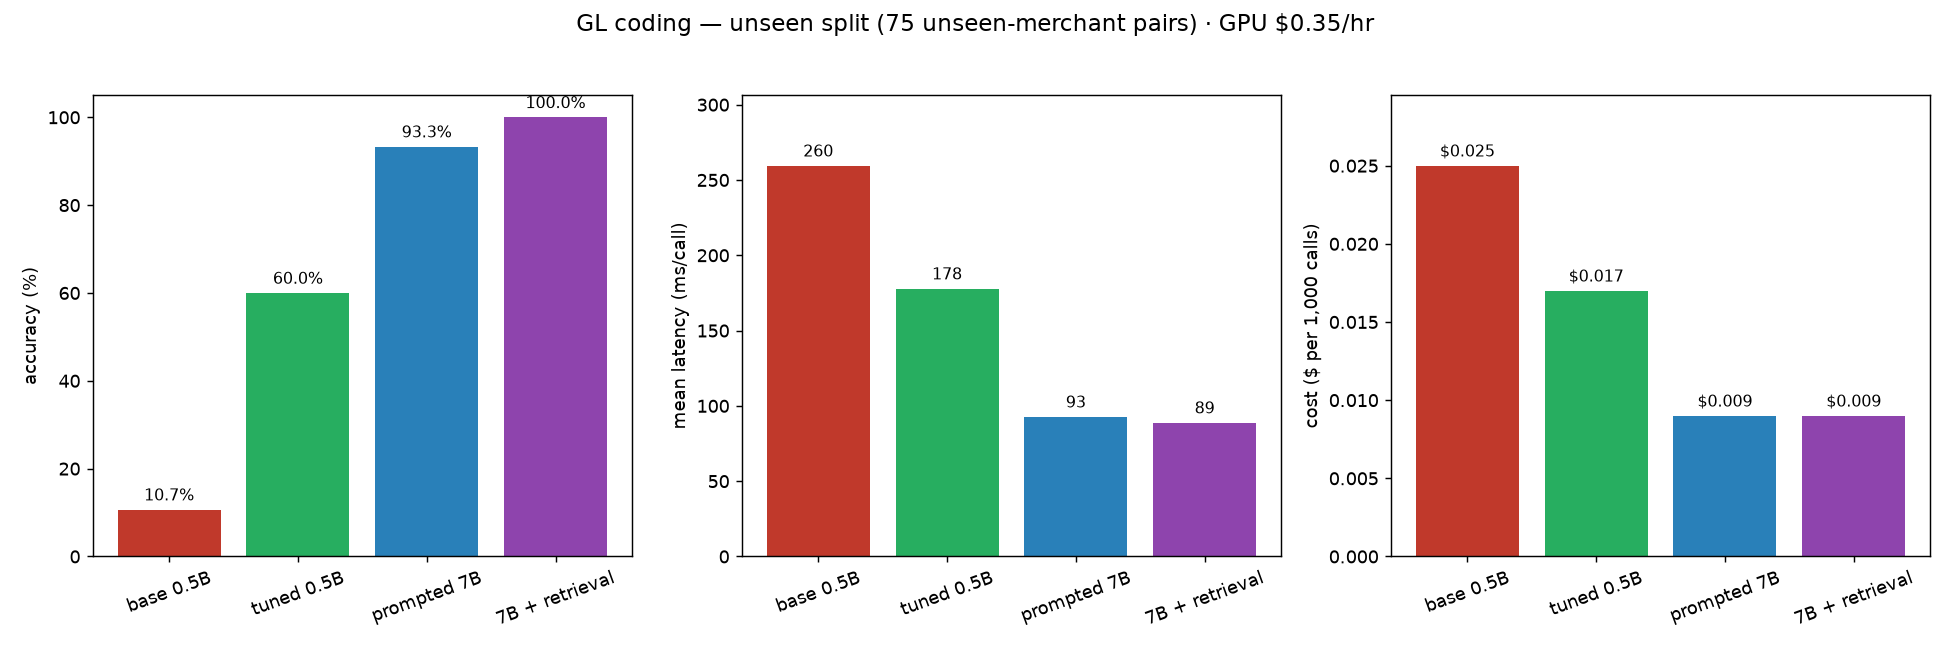
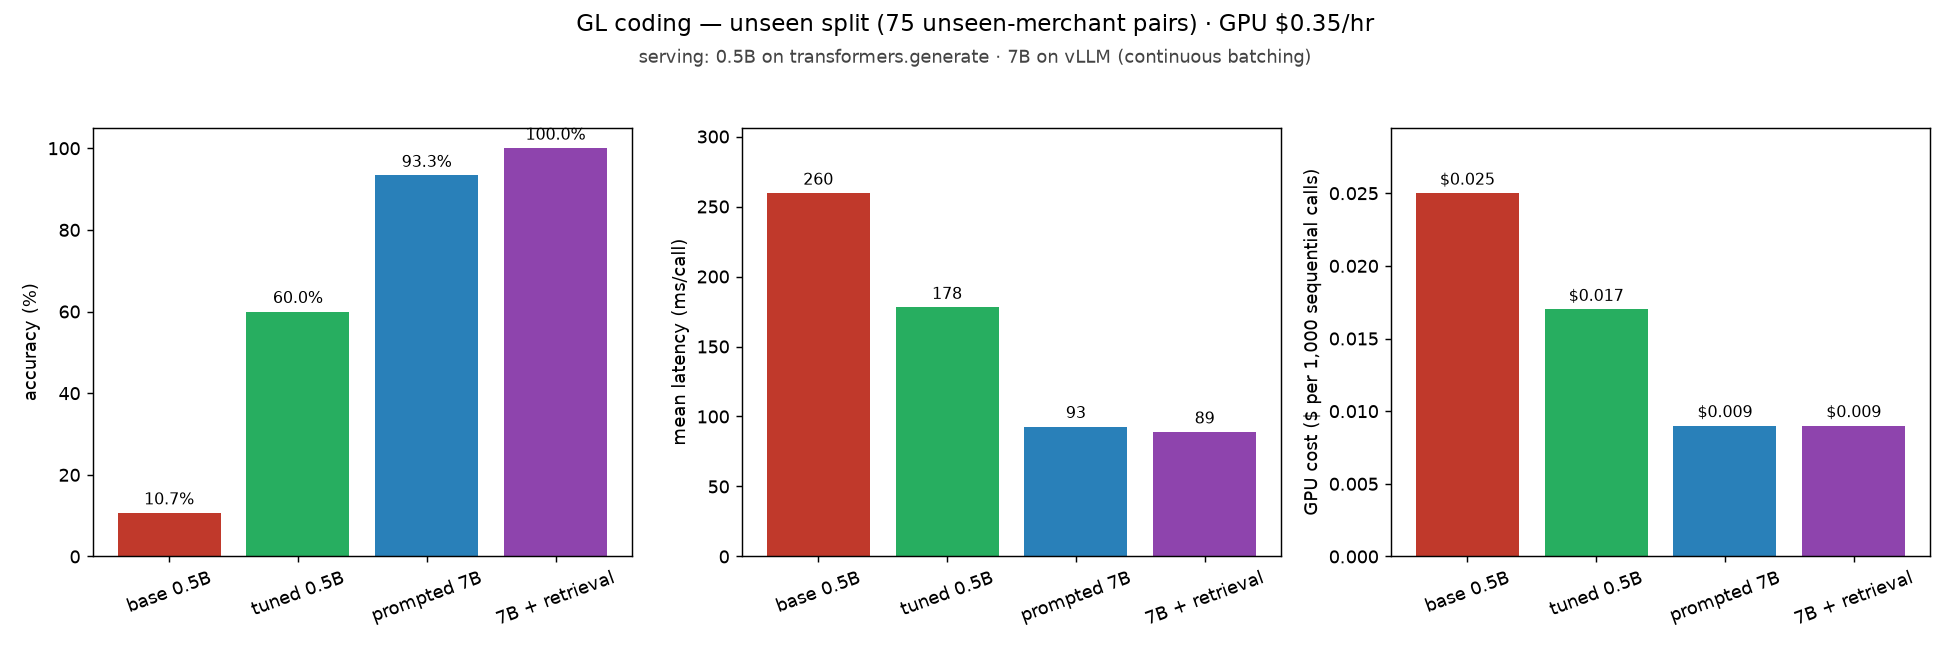
docs(evidence): clarify serving path + sequential-call cost on coding-compare figure
Figure 15 subtitle now states '0.5B on transformers.generate · 7B on vLLM
(continuous batching)', and the cost panel y-axis reads 'GPU cost ($ per 1,000
sequential calls)' so the 0.5B-vs-7B latency/cost gap isn't misread (batched
traffic would lower every bar).

diff --git a/gpu/eval_coding_compare.py b/gpu/eval_coding_compare.py
@@ -262,7 +262,7 @@ def _render(json_path: Path, png: Path) -> None:
     panels = [
         (axes[0], acc, "accuracy (%)", lambda x: f"{x:.1f}%", 105),
         (axes[1], lat, "mean latency (ms/call)", lambda x: f"{x:.0f}", None),
-        (axes[2], cost, "cost ($ per 1,000 calls)", lambda x: f"${x:.3f}", None),
+        (axes[2], cost, "GPU cost ($ per 1,000 sequential calls)", lambda x: f"${x:.3f}", None),
     ]
     for ax, vals, ylab, fmt, ylim in panels:
         bars = ax.bar(labels, vals, color=colors)
@@ -274,7 +274,9 @@ def _render(json_path: Path, png: Path) -> None:
             ax.text(b.get_x() + b.get_width() / 2, val + top * 0.02, fmt(val),
                     ha="center", fontsize=9)
     fig.suptitle(title, fontsize=13)
-    fig.tight_layout(rect=(0, 0, 1, 0.95))
+    fig.text(0.5, 0.925, "serving: 0.5B on transformers.generate · 7B on vLLM (continuous batching)",
+             ha="center", va="top", fontsize=10, color="#444444")
+    fig.tight_layout(rect=(0, 0, 1, 0.90))
     png.parent.mkdir(parents=True, exist_ok=True)
     fig.savefig(png, dpi=130)
     print(f"wrote {png}")
